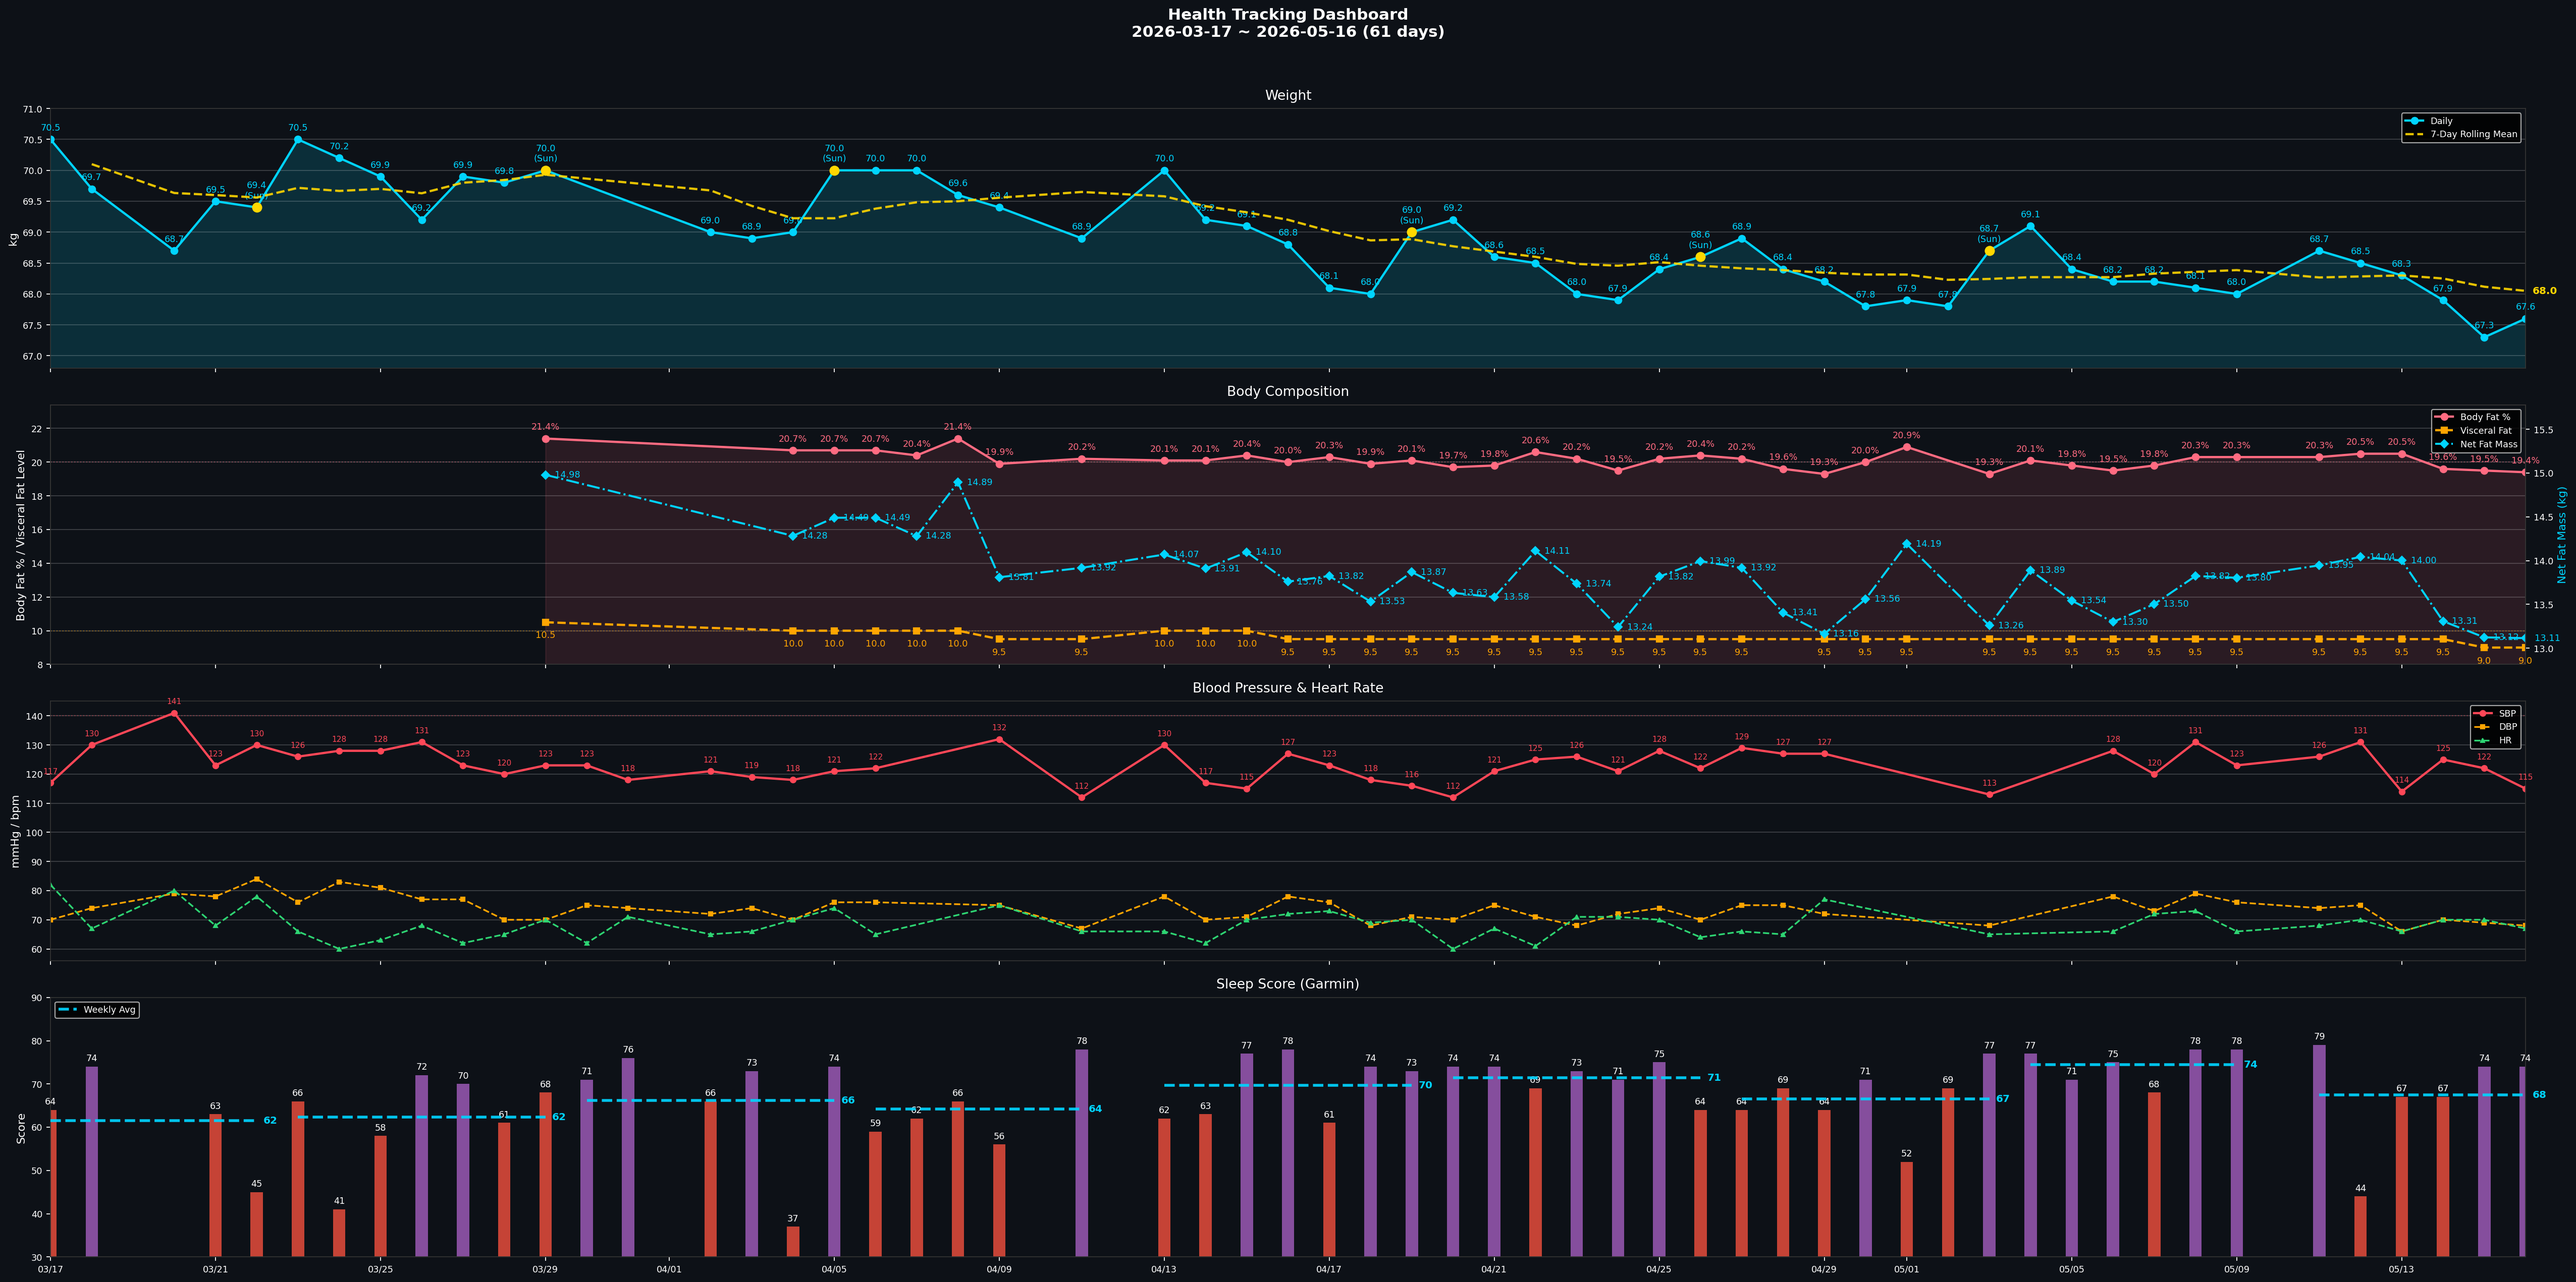
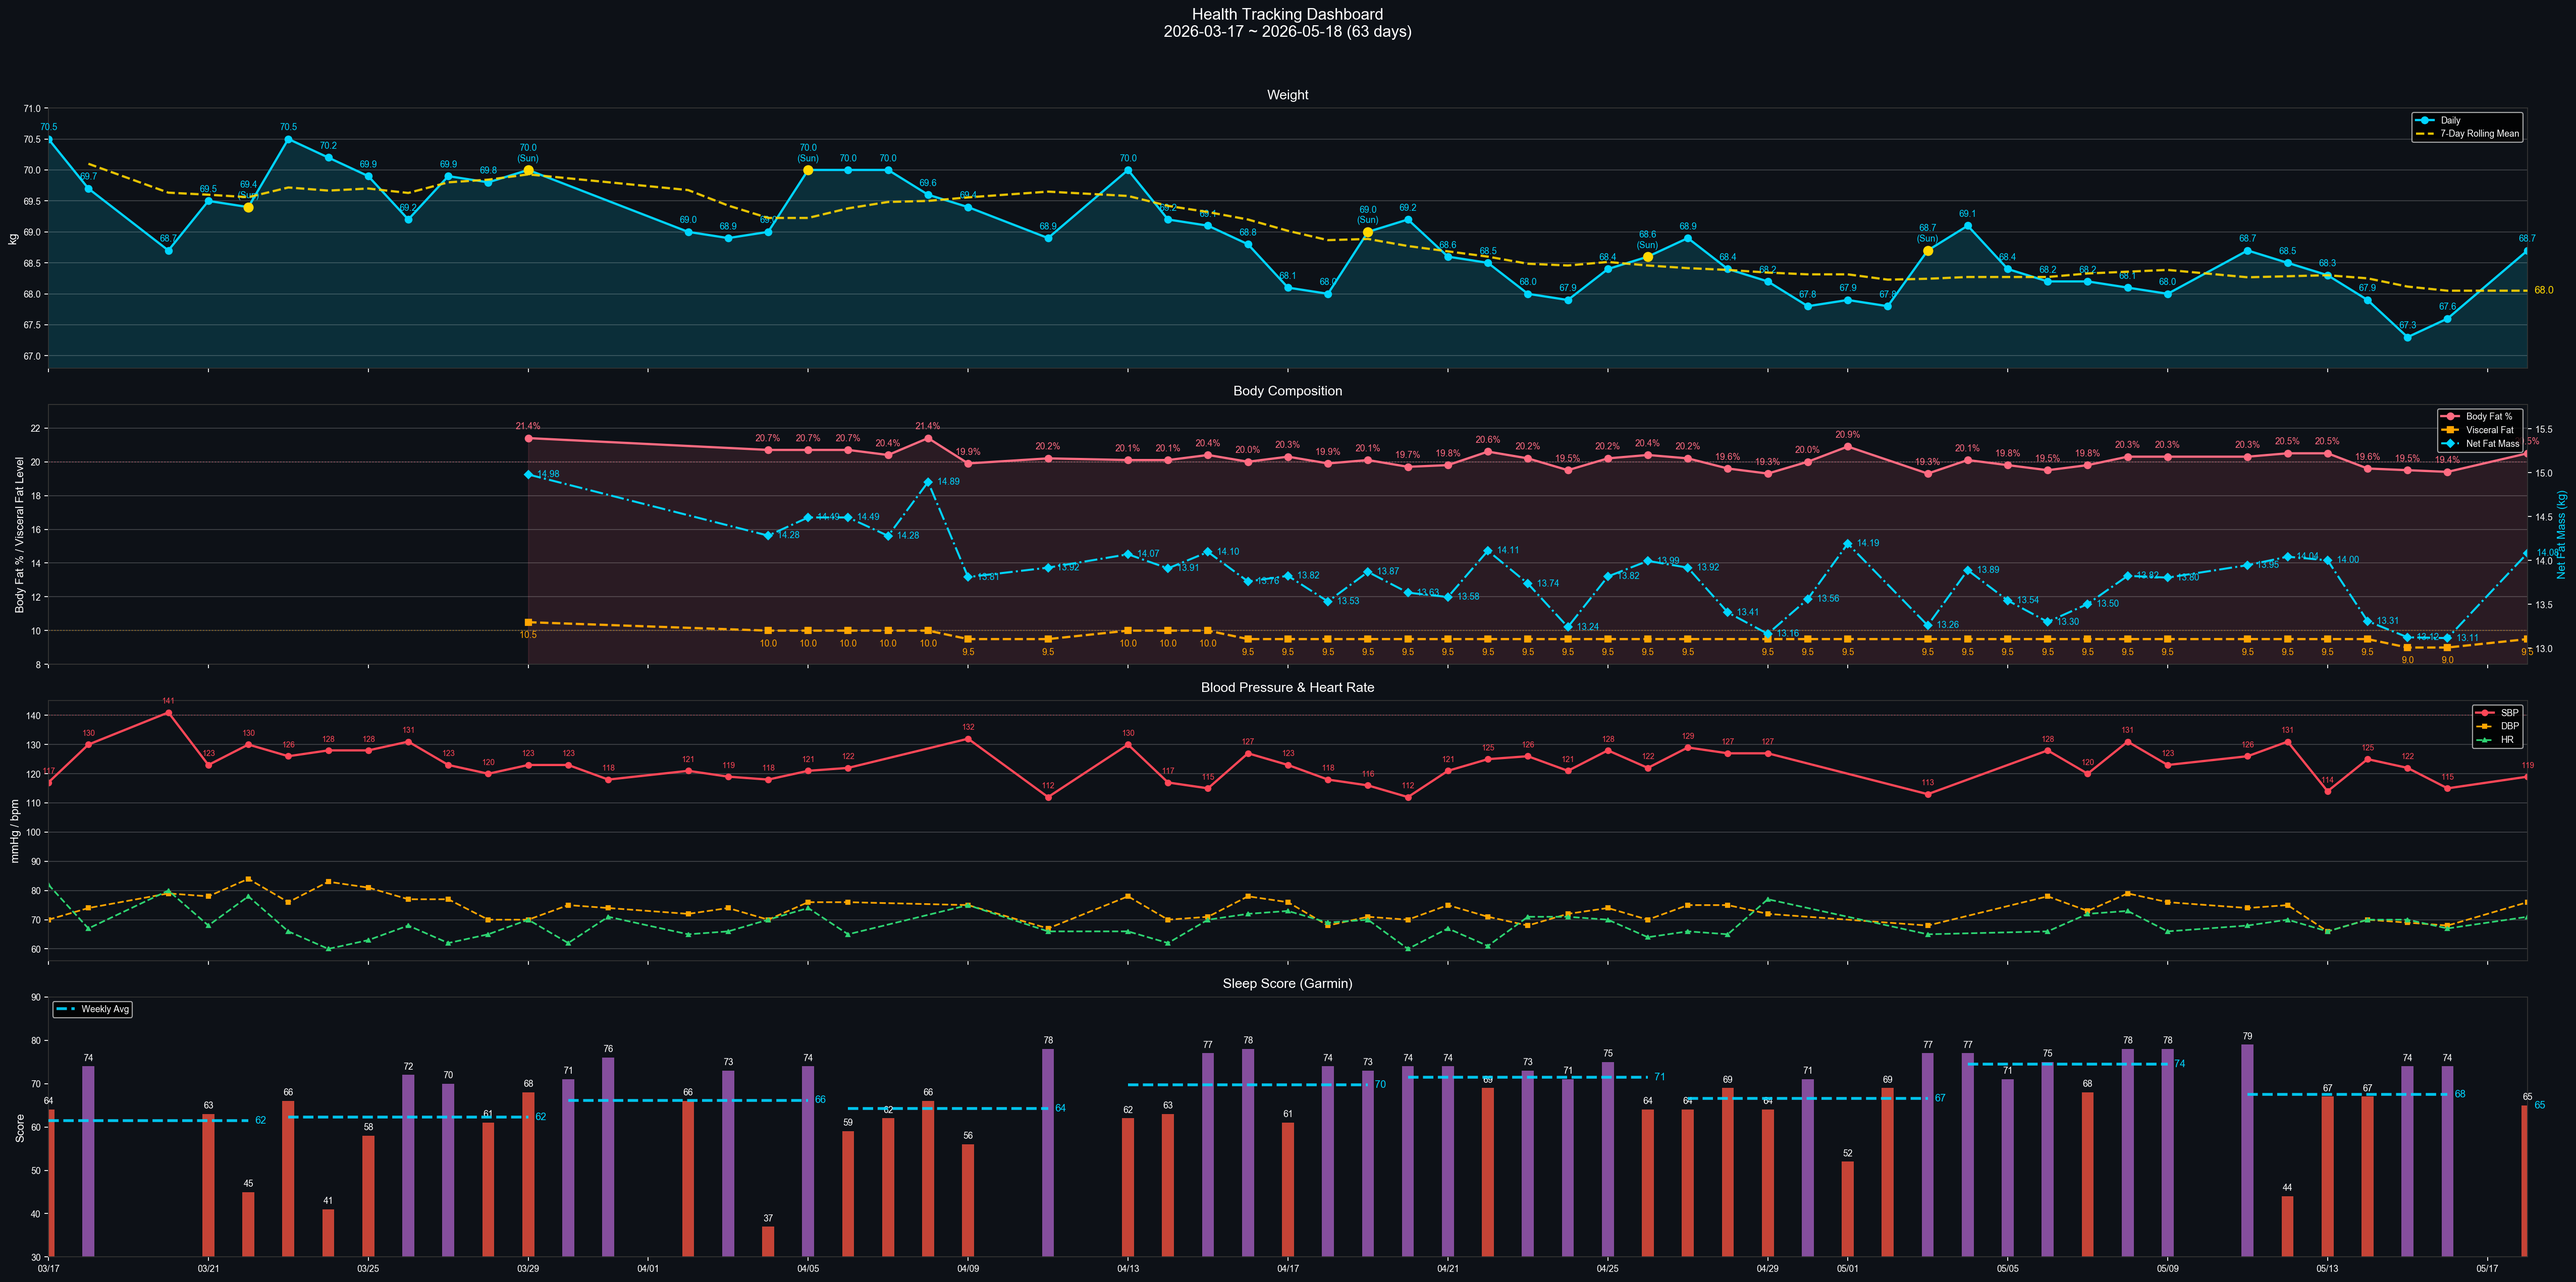
daily health log 2026-05-18

diff --git a/data.js b/data.js
@@ -9,8 +9,8 @@ window.HC_DATA = {
     lede:    { en: "Sleep, BP, lipids, uric acid — one shared metabolic root. Lifestyle stacks first; medication only after lifestyle plateaus.",
                zh: "睡眠、血壓、血脂、尿酸——共享同一個代謝根源。生活方式介入優先，等到效果平台期再考慮藥物。" },
     progressLbl: { en: "Weight progress · 70 → 65 kg", zh: "體重進度 · 70 → 65 公斤" },
-    progressMeta: { en: "Day 61 · 67.6 kg · Sat official (5/16)", zh: "第 61 天 · 67.6 公斤 · 週六正式（5/16）" },
-    startDate: { en: "Start date · Mar 17, 2026 · Last sync 5/16", zh: "起始日期 · 2026 年 3 月 17 日 · 最後同步 5/16" },
+    progressMeta: { en: "Day 63 · 67.6 kg · Sat official (5/16)", zh: "第 63 天 · 67.6 公斤 · 週六正式（5/16）" },
+    startDate: { en: "Start date · Mar 17, 2026 · Last sync 5/18", zh: "起始日期 · 2026 年 3 月 17 日 · 最後同步 5/18" },
     startWeight: 70,
     targetWeight: 65,
     currentWeight: 67.6,
@@ -38,14 +38,14 @@ window.HC_DATA = {
   markers: [
     {
       sys: "heart", name: { en: "Blood Pressure", zh: "血壓" },
-      val: "126/76", unit: "mmHg",
-      delta: { en: "W19 weekly avg (4 days) · target met (<130) · last 115/68 (5/16)", zh: "W19 週均（4 天）· 已達標 (<130) · 最新 115/68 (5/16)" },
+      val: "122/70", unit: "mmHg",
+      delta: { en: "W20 weekly avg (6 days) · target met (<130) · last 119/76 (5/18)", zh: "W20 週均（6 天）· 已達標 (<130) · 最新 119/76 (5/18)" },
       cadence: { en: "Daily · weekly avg", zh: "每日 · 週均" },
       status: "ok",
     },
     {
       sys: "sleep", name: { en: "Sleep Score", zh: "睡眠分數" },
-      val: "74", unit: "Garmin",
+      val: "65", unit: "Garmin",
       delta: { en: "5/4 · OSA flag: T90 18.4% (severe)", zh: "5/4 · OSA 紅旗：T90 18.4%（重度）" },
       cadence: { en: "Daily · Garmin", zh: "每日 · Garmin" },
       status: "warn",
@@ -850,14 +850,14 @@ window.HC_DATA = {
   tracker: {
     // [SBP, DBP] — gaps filled with prior reading
     bp: [
-      [113,68], [113,68], [113,68], [113,68], [128,78], [120,73], [131,79], [123,76], [126,74], [131,75], [114,66], [125,70], [122,69], [115,68],
+      [113,68], [113,68], [113,68], [128,78], [120,73], [131,79], [123,76], [126,74], [131,75], [114,66], [125,70], [122,69], [115,68], [119,76],
     ],
     // 4/21–5/4 daily weight (kg)
-    weight: [67.8, 68.7, 69.1, 68.4, 68.2, 68.2, 68.1, 68, 68.7, 68.5, 68.3, 67.9, 67.3, 67.6],
+    weight: [68.7, 69.1, 68.4, 68.2, 68.2, 68.1, 68, 68.7, 68.5, 68.3, 67.9, 67.3, 67.6, 68.7],
     // Garmin Sleep Score
-    sleep:  [69, 77, 77, 71, 75, 68, 78, 78, 79, 44, 67, 67, 74, 74],
+    sleep:  [77, 77, 71, 75, 68, 78, 78, 79, 44, 67, 67, 74, 74, 65],
     // Body Battery waking
-    bb:     [41, 54, 49, 47, 56, 47, 37, 48, 55, 36, 42, 34, 51, 63],
+    bb:     [54, 49, 47, 56, 47, 37, 48, 55, 36, 42, 34, 51, 63, 48],
     // SpO2 nightly nadir % (last 14 days, parallel to bp/weight/sleep/bb).
     // Earlier nights null until sync_data_js.py backfills; banner only uses trailing values.
     spo2Nadir: [null, null, null, null, null, 84, 79, 87, 85, 84, 84, 86, 82, 84],

diff --git a/reviews/weekly/2026-W21.md b/reviews/weekly/2026-W21.md
@@ -1,0 +1,156 @@
+# 週回顧 — 2026-W21（2026-05-18 – 2026-05-24）
+
+*週日晚間填寫。10 分鐘。回顧本週，不批判，只觀察。*
+
+---
+
+## 〇、半年計畫目標對照
+
+*從 index.html 半年健康逆轉計畫提取。每週檢視自己在哪個位置。*
+
+| 指標 | 當月目標 | 本週實際 | 差距 |
+|------|----------|----------|------|
+| 體重（週六早晨讀數） | _____ kg（第__月目標） | _____ kg | _____ kg |
+| 體脂率 | _____%（目標 ≤ _____%） | _____% | ____% |
+| 內臟脂肪 | _____ （目標 ≤ _____） | _____ | _____ |
+| 收縮壓（週均） | < 130 mmHg（終極 < 125） | _____ mmHg | |
+| Sleep Score（週均） | ≥ 70（進階 ≥ 80） | _____ | |
+| Body Battery 起床值（週均） | ≥ 65（進階 ≥ 75） | _____ | |
+| 每日步數（週均） | ≥ _____ 步（依階段） | _____ 步 | |
+| 每週運動時間 | ≥ _____ 分鐘（依階段） | _____ 分鐘 | |
+
+**半年里程碑參考：**
+- 第 0 月 70.0 kg → 第 1 月 69.2 → 第 2 月 68.3 → 第 3 月 67.5 → 第 4 月 66.7 → 第 5 月 65.8 → 第 6 月 65.0 kg
+- 運動：第 1-2 月 120-150 分/週 → 第 3-4 月 170-210 分/週 → 第 5-6 月 250-300 分/週
+
+---
+
+## 一、數據總覽
+
+### 體重
+
+|  | 一 | 二 | 三 | 四 | 五 | 六 | 日 |
+|--|----|----|----|----|----|----|-----|
+| 體重 (kg) | 68.7 | | | | | | |
+| 體脂率 (%) | 20.5 | | | | | | |
+| 內臟脂肪 | 9.5 | | | | | | |
+
+**本週正式讀數（週六早晨）：** _____ kg｜體脂率：_____%｜內臟脂肪：_____
+**上週正式讀數（週六早晨）：** _____ kg｜體脂率：_____%｜內臟脂肪：_____
+**體重變化：** _____ kg｜體脂率變化：_____%｜內臟脂肪變化：_____
+
+---
+
+### 血壓（第二次讀數）
+
+| 日期 | 收縮壓 | 舒張壓 | 心率 |
+|------|--------|--------|------|
+| 5/18 (一) | 119 | 76 | 71 |
+| 5/19 (二) | | | |
+| 5/20 (三) | | | |
+| 5/21 (四) | | | |
+| 5/22 (五) | | | |
+| 5/23 (六) | | | |
+| 5/24 (日) | | | |
+
+**本週平均：** _____ / _____ mmHg，心率 _____ bpm
+
+*收縮壓週均 > 130 或舒張壓 > 85 → 標記為需關注。*
+
+---
+
+### 睡眠
+
+| 日期 | 就寢 | 起床 | 中途醒 | Sleep Score | Body Battery | 主觀恢復 |
+|------|------|------|--------|-------------|--------------|----------|
+| 5/18 (一) | 21:20 | 03:24 | 無 | 65 | 48 | 3 |
+| 5/19 (二) | | | | | | |
+| 5/20 (三) | | | | | | |
+| 5/21 (四) | | | | | | |
+| 5/22 (五) | | | | | | |
+| 5/23 (六) | | | | | | |
+| 5/24 (日) | | | | | | |
+
+**Sleep Score 週均：** _____ / 100
+**Body Battery 週均：** _____
+**主觀恢復感週均：** _____ / 5
+**連續 < 65 天數：** _____
+**22:30 前就寢天數：** _____ / 7
+
+---
+
+### HRV 趨勢
+
+*週日填寫時執行 `python scripts/analyze_hrv_trend.py` 並貼上 markdown snippet。預設讀全部歷史；用 `--days 28` 限制近 4 週。*
+
+<!-- Paste output from: python scripts/analyze_hrv_trend.py -->
+
+**本週判讀**：
+- Verdict（CONFIRMED / LIKELY / WEAK / NO TREND）：_____
+- 若 CONFIRMED 且 slope < −0.05 ms/night → 訓練 deload 1 週 + 熱量補回 200–300 kcal/day
+- 若整體 mean < 18 ms → paced breathing 6 breaths/min × 5 min × 2/day 加上去
+- 若 OSA 治療介入後 → 期待 3 個月內回升至 25+ ms
+
+---
+
+## 二、身體信號模式
+
+*本週 Daily 中記錄的身體信號，標注出現頻率與強度變化。*
+
+| 信號（部位+性質） | 出現天數 | 平均強度 | 趨勢（↑↓→） | 備註 |
+|-------------------|----------|----------|-------------|------|
+| | | | | |
+
+**反覆出現（≥ 3 天）：** 無 / _____
+
+*同一信號連續 3 天以上 → 考慮就醫或調整訓練。*
+
+---
+
+## 三、執行率
+
+### 每日習慣
+
+| 項目 | 完成天數 | 完成率 |
+|------|----------|--------|
+| 飲水 2.5L | / 7 | % |
+| 補充品（洛神花茶 ×2 + 魚油 ×2 + D3K2 3000IU + 酸櫻桃 500mg + 鎂 400mg + Citrulline 2g + Psyllium 5g ×2） | / 7 | % |
+| 運動 | / 7 | % |
+| 活動度/伸展 | / 7 | % |
+
+### 本週運動紀錄
+
+| 日期 | 運動內容（含組數/時間） |
+|------|------------------------|
+| | |
+
+---
+
+## 四、本週觀察
+
+*一句話描述本週整體狀態。不用完美，誠實就好。*
+
+>
+
+---
+
+## 五、下週調整
+
+*根據本週觀察，列出 1–3 個具體、可執行的調整。不要列太多。*
+
+- [ ]
+- [ ]
+
+---
+
+## 六、恢復策略紀錄
+
+*若本週觸發任何警報（Sleep Score < 65、身體信號 ≥ 3 天、血壓異常），記錄採取的應對措施。*
+
+| 警報 | 應對措施 | 效果 |
+|------|----------|------|
+| | | |
+
+---
+
+*Filed: reviews/weekly/2026-W21.md*

diff --git a/reviews/daily/2026-05-18.md b/reviews/daily/2026-05-18.md
@@ -1,0 +1,106 @@
+# 晨間健康紀錄 — 2026-05-18
+
+*3 分鐘。起床後立即完成。記錄，不分析。*
+
+---
+
+## 體重
+
+**今日：68.7 kg**
+**體脂率：20.5 %**
+**內臟脂肪等級：9.5**
+
+*每週六早晨為正式紀錄（排尿後、進食前；連 5 個工作日後、週末大餐前的真實低點）。其他日可選填。*
+
+---
+
+## 血壓（晨間）
+
+*起床後 1 小時內，上完廁所、進食前。坐下安靜 5 分鐘，連量兩次取第二次。*
+
+| 次數 | 收縮壓 | 舒張壓 | 心率 |
+|------|--------|--------|------|
+| 第一次 | | | |
+| 第二次 | 119 | 76 | 71 |
+
+---
+
+## 睡眠狀態
+
+**Garmin 偵測入睡：** 21:20
+**實際上床：**
+**實際起床：** 03:24
+**TST：** 5h 54m（深眠 100 分 / REM 25 分）
+**中途醒來：** 無
+**Garmin Sleep Score：** 65 / 100
+**Garmin Body Battery 起床值：** 48
+**主觀恢復感：** 3 / 5（1=極度疲憊, 5=精力充沛）
+**RHR：** 59 bpm｜**日均壓力：** 17
+**入睡 latency：**（自動估算，範圍 LO–HI 分）
+
+### SpO2 夜間最低（7 晚趨勢）
+
+| 日期 | -6 | -5 | -4 | -3 | -2 | -1 | 今晨 |
+|------|----|----|----|----|----|----|------|
+| 日期 | 5/12 | 5/13 | 5/14 | 5/15 | 5/16 | 5/17 | 5/18 |
+| 最低 % | 86 | 82 | 84 | 83 | 84 | 86 | 87 |
+
+**今晨日均 SpO2：** 97.0%（睡眠平均 98.0%）
+**< 88% 連續晚數：** 7（瞬間秒級值；OSA 紅旗門檻：連 3 晚 < 88% → 強烈建議 PSG）
+
+**今晨 T90：** 2.2%（紅旗門檻 > 10%）｜**最長 desat：** 4 分（紅旗 > 15 分）｜**最低點：** 88%（紅旗 < 80%）
+**Desat events：** 5 段（全部 🟢 邊緣 88-89%；分布 23:37 / 23:39 / 01:28 / 02:38 / 02:40-43）
+
+**SpO2 全夜圖：** reviews/daily/spo2/spo2_desat_2026-05-18.png
+
+*Sleep Score < 65 或 Body Battery < 50 連續三天 → 重新檢視睡眠修復方案。*
+
+---
+
+## 昨日回顧
+
+**實際飲水量：** [ ] L（目標 ≥ 2.5L；高尿酸最佳 2.8–3.0L；17:00 前完成 60-70%）
+**昨日步數：** 8,065（壓力日均 31）
+**昨日活動消耗：** [ ] kcal（主動 + BMR；自動讀自 Garmin daily summary 活動區塊）
+  - > 300 kcal → 今日可彈性增加 200-300 kcal 攝取
+  - < 100 kcal → 今日加強運動（補一段 Zone 2 走路 30 分）
+**昨日 Na / K / Na-K ratio：** [ ] mg / [ ] mg / [ ]（自動讀自 `scripts/analyze_nutrition.py --date YYYY-MM-DD`）
+  - Na/K < 0.5 ✅ / 0.5-0.6 🟢 / 0.6-0.8 🟡 / > 0.8 🟠（INTERSALT 1988）
+  - 連 3 天 ≥ 0.8 → 首選減鈉（自煮蛋取代茶葉蛋 −440 mg）或加 K（香蕉 +422 mg）
+
+---
+
+## 身體信號
+
+*任何張力、疼痛、疲勞、異常 — 或「清」。記位置、性質、強度。*
+
+| 部位 | 性質 | 強度 (0-10) |
+|------|------|-------------|
+| 清 | — | — |
+
+---
+
+## 今日計畫速記
+
+- [ ] 飲水目標：2.5 L（建議 2.5–3.0L；錨點 09:30 ≥1.0L / 13:30 ≥2.0L / 17:00 截止 2.5L）
+- [ ] 補充品（核心，2026-05-11 v2）：
+  - 早餐（06:00）：D3 2000 IU + **K2 MK-7 180 mcg** + **L-Citrulline 4 g** + 益生菌
+  - 午餐前 30 min：Psyllium 5 g + 350 mL 水
+  - 晚餐前 30 min：Psyllium 5 g + 350 mL 水
+  - 晚餐後：魚油 ×4（拆 18:30 ×2 + 19:30 ×2）
+  - 睡前（21:00）：鎂甘胺酸 400 mg + 酸櫻桃 1000-2000 mg + **Glycine 純粉 3 g**（起步 1.5 g × 3 晚）
+  - 茶飲：洛神花 ×2 杯（早 + 14:00 前）
+  - 食物層：南瓜籽 30 g（15:30）+ **菇蕈 100-130 g/天**（午 30-50 + 晚 50-80）
+  - ⏸ 待定：NAC 600 mg × 2（待 PSG 結果）
+- [ ] 運動（17:00 固定）：走路 (Zone 2)
+- [ ] 活動度/伸展（09:30 + 20:30 兩次錨點）：全身伸展（兩次錨點）
+- [ ] Wind-down（20:00 燈光降 + 螢幕濾鏡，液體截止）
+- [ ] 上床 21:30 / 熄燈 22:00（TST 目標 7h+）
+
+---
+
+💡 PT 建議：今日 Sleep Score 65 + TST 5h54m + Body Battery 48 屬於「恢復一般」，stretch + walk 的計畫剛好對位，**走路維持 Zone 2 散步節奏即可**（不快走、不加坡度），別讓今天變成扣分日。03:24 早醒值得留意 — 檢查睡前 2 小時是否水喝太多（17:00 截止）、或環境光/噪音；連續觀察 2-3 天。SpO2 瞬間最低 87%、T90 2.2%、最長 desat 4 分 → 無單晚紅旗，但 **7 晚瞬間最低皆 < 88%** 屬長期累積訊號，PSG 預約進度可推進。
+
+---
+
+*Filed: reviews/daily/2026-05-18.md*
